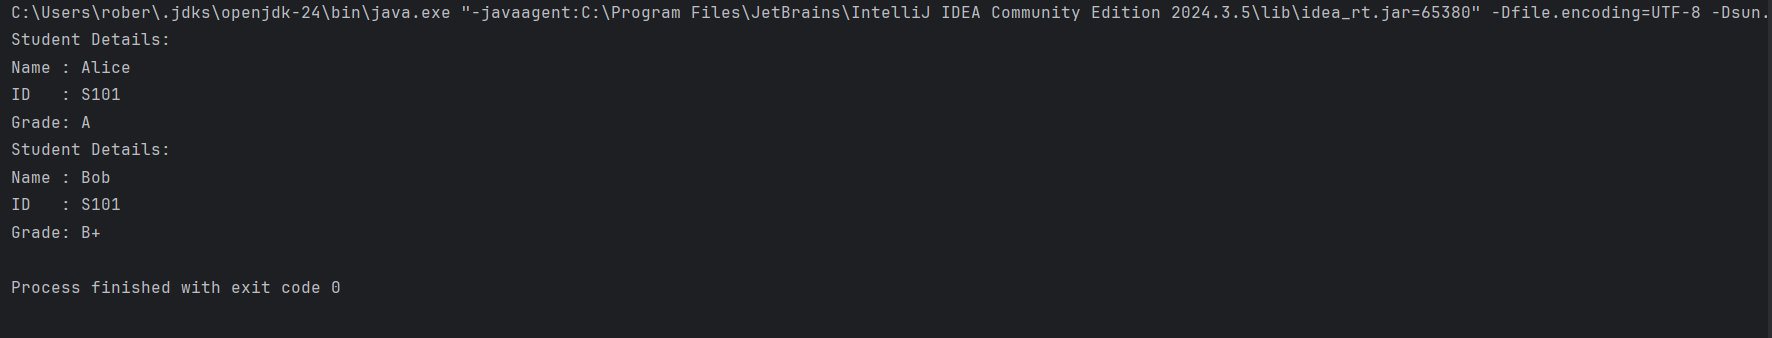
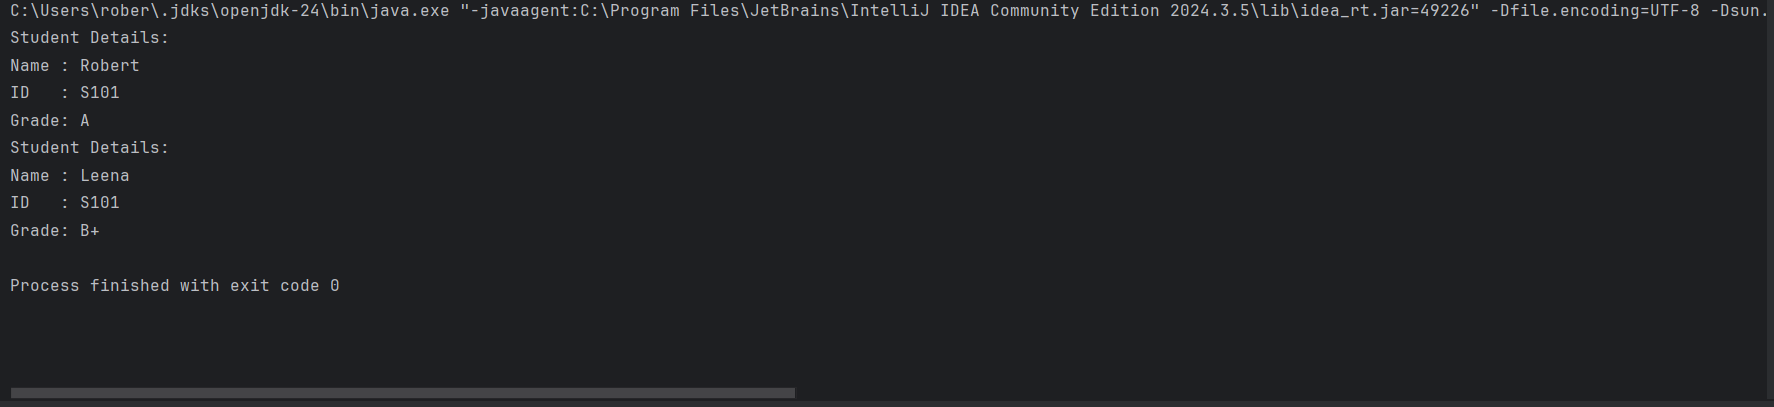
exercise 10

diff --git a/Week_01/Design Patterns and Principles/Exercise10_MVCPatternExample/MVCTest.java b/Week_01/Design Patterns and Principles/Exercise10_MVCPatternExample/MVCTest.java
@@ -1,7 +1,7 @@
 public class MVCTest {
     public static void main(String[] args) {
         // Create model
-        Student student = new Student("Alice", "S101", "A");
+        Student student = new Student("Robert", "S101", "A");
 
         // Create view
         StudentView view = new StudentView();
@@ -13,7 +13,7 @@ public class MVCTest {
         controller.updateView();
 
         // Update model via controller
-        controller.setStudentName("Bob");
+        controller.setStudentName("Leena");
         controller.setStudentGrade("B+");
 
         // Display updated data
